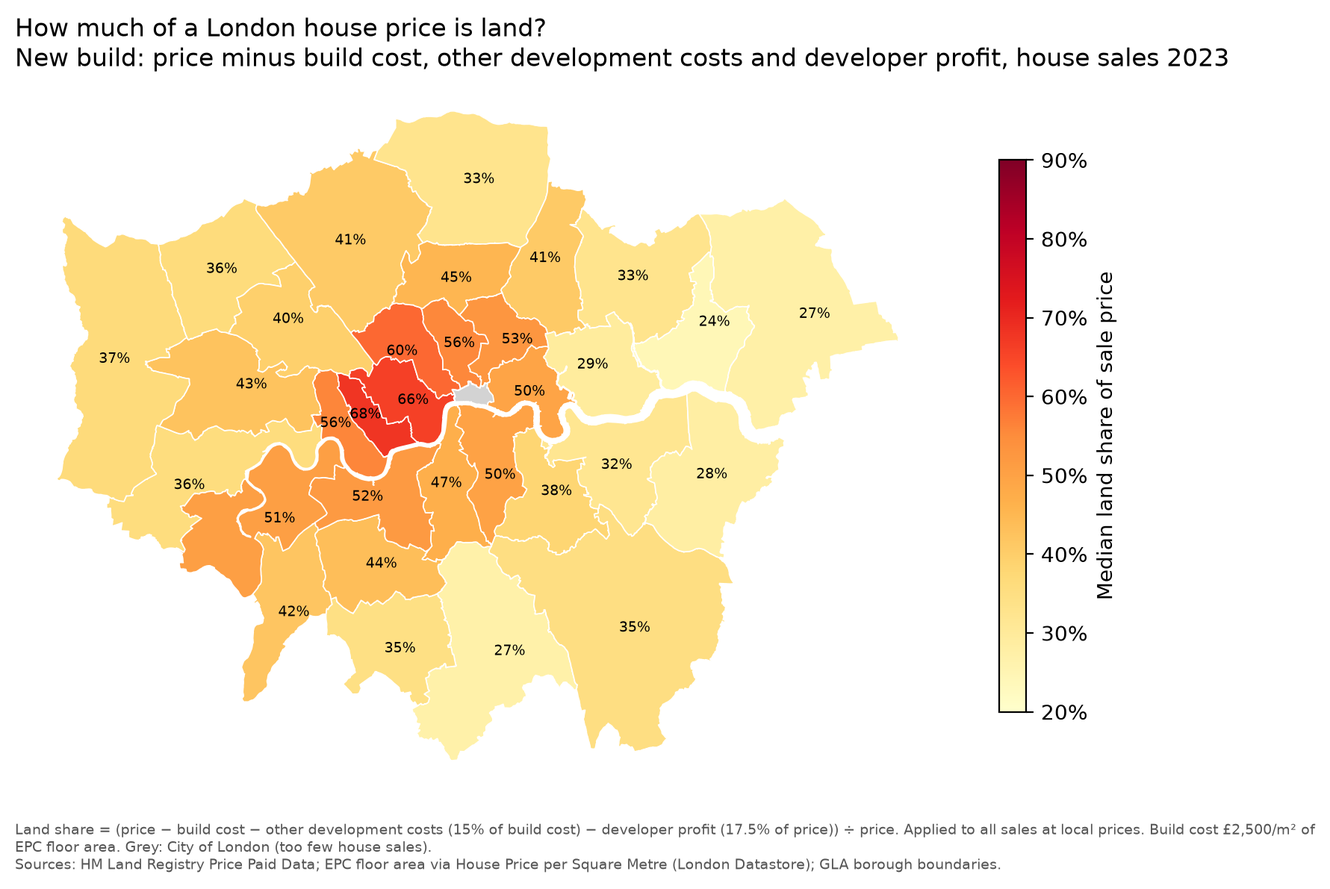
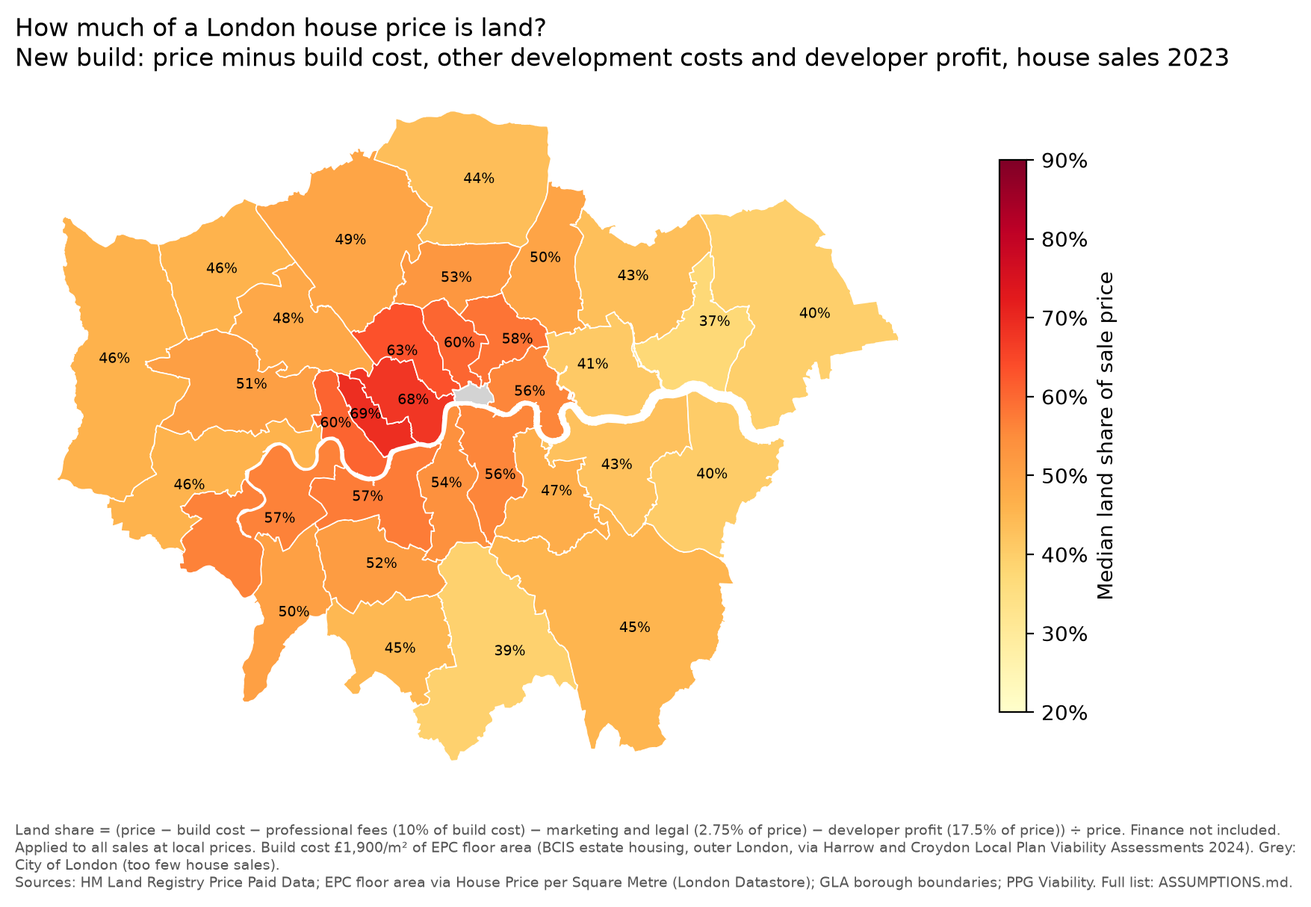
Use sourced assumptions: BCIS build cost £1,900/m², viability fees, ONS labour share
Build cost, fees, marketing and profit from Harrow and Croydon Local Plan Viability
Assessments 2024 (BCIS); developer profit range from PPG Viability; labour share
derived from ONS Input-Output Analytical Tables 2023. Full citations in ASSUMPTIONS.md.

diff --git a/app.py b/app.py
@@ -47,7 +47,7 @@ def split_chart(parts: dict, mode: str) -> go.Figure:
     ]
     if mode == "new_build":
         bars += [
-            ("Fees, finance, sales", parts["other_dev_costs"], COLOURS["other"]),
+            ("Fees, marketing and legal", parts["other_dev_costs"], COLOURS["other"]),
             ("Developer profit", parts["developer_profit"], COLOURS["profit"]),
         ]
     bars.append((LAND_LABEL[mode], parts["land"], COLOURS["land"]))
@@ -122,8 +122,10 @@ cost_per_m2 = st.sidebar.slider(
     help="Change this to see how the result depends on the build cost assumption.",
 )
 st.sidebar.caption(
-    f"Default {gbp(config.BUILD_COST_PER_M2)}/m² is provisional. "
-    f"Labour share of build cost: {config.LABOUR_SHARE:.0%} (national estimate)."
+    f"Default {gbp(config.BUILD_COST_PER_M2)}/m²: BCIS estate housing, outer London "
+    f"(Harrow and Croydon Local Plan Viability Assessments 2024). "
+    f"Labour share of build cost: {config.LABOUR_SHARE:.0%}, an estimate from ONS input-output "
+    f"tables 2023 (range {config.LABOUR_SHARE_RANGE[0]:.0%}–{config.LABOUR_SHARE_RANGE[1]:.0%})."
 )
 
 postcode = normalise_postcode(postcode_text)
@@ -224,13 +226,18 @@ st.divider()
 st.caption(
     f"**Method.** Build cost = EPC floor area × build cost per m². "
     f"Resale: land and location = price − build cost; a homeowner seller makes no developer profit. "
-    f"New build: land = price − build cost − fees, finance and sales "
-    f"({config.OTHER_DEV_COSTS_SHARE_OF_BUILD:.0%} of build cost, provisional) − developer profit "
-    f"({config.DEVELOPER_PROFIT_SHARE_OF_PRICE:.1%} of price, planning guidance: 15–20%). "
+    f"New build: land = price − build cost − professional fees "
+    f"({config.PROFESSIONAL_FEES_SHARE_OF_BUILD:.0%} of build cost) − marketing and legal "
+    f"({config.MARKETING_AND_LEGAL_SHARE_OF_PRICE:.2%} of price) − developer profit "
+    f"({config.DEVELOPER_PROFIT_SHARE_OF_PRICE:.1%} of price; planning guidance 15–20%). "
+    f"Finance is not included, so new-build land is slightly overstated. "
     f"The labour and materials split "
-    f"is a national estimate ({config.LABOUR_SHARE:.0%} labour), not data for each house. Houses only, "
+    f"is a national estimate ({config.LABOUR_SHARE:.0%} labour, ONS input-output tables 2023), not data "
+    f"for each house. Houses only, "
     f"standard sales, {config.YEAR}. EPC floor area can be old or incorrect.  \n"
     "**Sources.** HM Land Registry Price Paid Data; House Price per Square Metre (Price Paid × EPC, "
-    "London Datastore); postcodes.io; GLA borough boundaries. Contains HM Land Registry data © Crown "
+    "London Datastore); postcodes.io; GLA borough boundaries; build cost and appraisal assumptions from "
+    "BCIS via Harrow (Oct 2024) and Croydon (2024) Local Plan Viability Assessments; Planning Practice "
+    "Guidance: Viability. Contains HM Land Registry data © Crown "
     "copyright and database right. Full list in ASSUMPTIONS.md."
 )

diff --git a/config.py b/config.py
@@ -24,21 +24,32 @@ HOUSE_TYPES = ["D", "S", "T"]
 PPD_CATEGORIES = ["A"]
 
 # --- Build cost ------------------------------------------------------------
-# PROVISIONAL: the team must confirm this value and its source in ASSUMPTIONS.md.
-BUILD_COST_PER_M2 = 2500  # GBP per m² of floor area, London, houses
+# GBP per m² of floor area, houses, including 10% external works. BCIS 810.1 "Estate housing
+# generally" rebased to outer London: Harrow LPVA Oct 2024 Table 4.13.1 (£1,711 + 10% = £1,882);
+# Croydon LPVA 2024 para 4.12 (£1,754 + 10% = £1,929). Both by BNP Paribas Real Estate.
+BUILD_COST_PER_M2 = 1900
 
-# Multipliers for the sensitivity check (low, high) on BUILD_COST_PER_M2.
-BUILD_COST_SENSITIVITY = (0.8, 1.2)
+# Sensitivity range (low, high) in GBP per m². Low = -20%. High = £2,500, a cautious figure
+# above central Croydon (£2,201) to allow for inner London and net-zero costs.
+BUILD_COST_RANGE_PER_M2 = (1520, 2500)
 
-# PROVISIONAL ESTIMATE: national labour share of build cost. Label as an estimate in outputs.
-LABOUR_SHARE = 0.45
+# ESTIMATE: labour share of build cost, derived from ONS Input-Output Analytical Tables 2023
+# (UK construction, all types). Employee pay only gives 22%; adding all self-employed income
+# and surplus gives 52%. We use 38%, about the middle. Label as an estimate in outputs.
+LABOUR_SHARE = 0.38
+LABOUR_SHARE_RANGE = (0.22, 0.52)
 
 # --- New-build appraisal (not used for resales: a homeowner seller makes no developer profit) ---
 # Developer profit as a share of sale price. PPG Viability para 018: 15-20% of gross
-# development value is a suitable return for plan-making. We use the midpoint.
+# development value is a suitable return. Harrow and Croydon LPVAs 2024 use 17.5%.
 DEVELOPER_PROFIT_SHARE_OF_PRICE = 0.175
-# PROVISIONAL: professional fees, finance, sales and marketing, as a share of build cost.
-OTHER_DEV_COSTS_SHARE_OF_BUILD = 0.15
+# Professional fees as a share of build cost. Harrow LPVA para 4.22, Croydon para 4.18: 10%.
+PROFESSIONAL_FEES_SHARE_OF_BUILD = 0.10
+# Marketing and agents 2.5% plus sales legal fees 0.25% of sale price. Harrow para 4.24,
+# Croydon para 4.20.
+MARKETING_AND_LEGAL_SHARE_OF_PRICE = 0.0275
+# Finance is not included: the studies give an interest rate (6.5-7%), not a share, and a
+# share needs a build period assumption. So new-build land is slightly overstated.
 
 # Calculation modes.
 MODES = {"resale": "Resale (existing house)", "new_build": "New build (developer appraisal)"}

diff --git a/src/analysis.py b/src/analysis.py
@@ -10,8 +10,8 @@ from src.costs import split_price
 
 
 def add_splits(df: pd.DataFrame) -> pd.DataFrame:
-    """Add the price split for both modes, plus the ±build cost sensitivity."""
-    low, high = config.BUILD_COST_SENSITIVITY
+    """Add the price split for both modes, plus the build cost sensitivity range."""
+    low, high = config.BUILD_COST_RANGE_PER_M2
     df["price_per_m2"] = df["price"] / df["tfarea"]
     for mode in config.MODES:
         parts = split_price(df["price"], df["tfarea"], mode=mode)
@@ -19,14 +19,15 @@ def add_splits(df: pd.DataFrame) -> pd.DataFrame:
         df["labour_cost_est"] = parts["labour_est"]
         df[f"land_{mode}"] = parts["land"]
         df[f"land_share_{mode}"] = parts["land_share"]
-        for tag, k in (("cost_minus_20pct", low), ("cost_plus_20pct", high)):
+        for tag, cost in (("low_cost", low), ("high_cost", high)):
             df[f"land_share_{mode}_{tag}"] = split_price(
-                df["price"], df["tfarea"], config.BUILD_COST_PER_M2 * k, mode)["land_share"]
+                df["price"], df["tfarea"], cost, mode)["land_share"]
     return df
 
 
 def borough_summary(df: pd.DataFrame) -> pd.DataFrame:
     """Medians per borough. Both methods are applied to every sale at local prices."""
+    low, high = config.BUILD_COST_RANGE_PER_M2
     aggs = dict(
         sales=("price", "size"),
         new_build_sales=("old_new", lambda s: (s == "Y").sum()),
@@ -37,8 +38,8 @@ def borough_summary(df: pd.DataFrame) -> pd.DataFrame:
     )
     for mode in config.MODES:
         aggs[f"median_land_share_{mode}"] = (f"land_share_{mode}", "median")
-        aggs[f"land_share_{mode}_if_cost_minus_20pct"] = (f"land_share_{mode}_cost_minus_20pct", "median")
-        aggs[f"land_share_{mode}_if_cost_plus_20pct"] = (f"land_share_{mode}_cost_plus_20pct", "median")
+        aggs[f"land_share_{mode}_at_{low}_per_m2"] = (f"land_share_{mode}_low_cost", "median")
+        aggs[f"land_share_{mode}_at_{high}_per_m2"] = (f"land_share_{mode}_high_cost", "median")
     summary = df.groupby("borough_code").agg(**aggs)
     names = load_boundaries().set_index("GSS_CODE")["NAME"]
     summary.insert(0, "borough", names.reindex(summary.index))

diff --git a/src/map.py b/src/map.py
@@ -18,9 +18,10 @@ TITLES = {
 NOTES = {
     "resale": "Land share = (price − build cost) ÷ price. A homeowner seller makes no developer "
               "profit, so the rest is land and location.",
-    "new_build": f"Land share = (price − build cost − other development costs "
-                 f"({config.OTHER_DEV_COSTS_SHARE_OF_BUILD:.0%} of build cost) − developer profit "
-                 f"({config.DEVELOPER_PROFIT_SHARE_OF_PRICE:.1%} of price)) ÷ price. "
+    "new_build": f"Land share = (price − build cost − professional fees "
+                 f"({config.PROFESSIONAL_FEES_SHARE_OF_BUILD:.0%} of build cost) − marketing and legal "
+                 f"({config.MARKETING_AND_LEGAL_SHARE_OF_PRICE:.2%} of price) − developer profit "
+                 f"({config.DEVELOPER_PROFIT_SHARE_OF_PRICE:.1%} of price)) ÷ price. Finance not included. "
                  "Applied to all sales at local prices.",
 }
 
@@ -50,10 +51,11 @@ def plot_land_share(gdf, mode: str, path):
     )
     ax.text(
         0, -0.04,
-        f"{NOTES[mode]} Build cost £{config.BUILD_COST_PER_M2:,}/m² of EPC floor area. "
+        f"{NOTES[mode]} Build cost £{config.BUILD_COST_PER_M2:,}/m² of EPC floor area (BCIS estate "
+        "housing, outer London, via Harrow and Croydon Local Plan Viability Assessments 2024). "
         "Grey: City of London (too few house sales).\n"
         "Sources: HM Land Registry Price Paid Data; EPC floor area via House Price per Square Metre "
-        "(London Datastore); GLA borough boundaries.",
+        "(London Datastore); GLA borough boundaries; PPG Viability. Full list: ASSUMPTIONS.md.",
         transform=ax.transAxes, fontsize=7, va="top", color="#555", wrap=True,
     )
     ax.set_axis_off()

diff --git a/src/costs.py b/src/costs.py
@@ -1,7 +1,7 @@
 """Split a sale price into its parts. Works on single values and on pandas Series.
 
 Resale:    price = labour + materials + land and location
-New build: price = labour + materials + other development costs + developer profit + land
+New build: price = labour + materials + fees and marketing + developer profit + land (no finance)
 """
 import config
 
@@ -12,7 +12,8 @@ def split_price(price, floor_area, cost_per_m2=config.BUILD_COST_PER_M2, mode="r
     build = floor_area * cost_per_m2
     labour = build * config.LABOUR_SHARE
     if mode == "new_build":
-        other = build * config.OTHER_DEV_COSTS_SHARE_OF_BUILD
+        other = (build * config.PROFESSIONAL_FEES_SHARE_OF_BUILD
+                 + price * config.MARKETING_AND_LEGAL_SHARE_OF_PRICE)
         profit = price * config.DEVELOPER_PROFIT_SHARE_OF_PRICE
     else:
         other = build * 0

diff --git a/ASSUMPTIONS.md b/ASSUMPTIONS.md
@@ -1,59 +1,99 @@
-# Assumptions and limits
+# Assumptions, sources and limits
 
-Each assumption lists its value, its source, and its status. Values live in `config.py`.
+All values live in `config.py`. Each assumption below gives its value, its source (see the numbered source list at the end) and its status.
 
-## Assumptions
+- **Sourced**: taken directly from a published source.
+- **Derived**: calculated by us from a published source; the method is given.
+- **Team choice**: a judgement call, stated openly.
 
-| # | Assumption | Value | Source | Status |
+## 1. Scope
+
+| # | Assumption | Value | Source / reason | Status |
 |---|---|---|---|---|
-| 1 | Year of sales (`YEAR`) | 2023 | Latest full year in the pre-linked Price Paid x EPC dataset (it ends 31 Oct 2024). Price Paid has 2025, but using it would need our own address matching | Confirmed |
-| 2 | London sales only | County = `GREATER LONDON` | Price Paid Data county field | Confirmed |
-| 3 | Houses only (`HOUSE_TYPES`) | D, S, T | Flats share land, so the land share of a flat is not clear | Confirmed |
-| 4 | Standard sales only (`PPD_CATEGORIES`) | A | Category B includes repossessions, buy-to-let and company sales, which are not full market value | Confirmed |
-| 5 | Build cost (`BUILD_COST_PER_M2`) | £2,500 per m² | **No source yet** | **PROVISIONAL: team must set and cite** |
-| 6 | Build cost sensitivity range | ×0.8 to ×1.2 | Team choice to show how results move | Confirmed |
-| 7 | Labour share of build cost (`LABOUR_SHARE`) | 45% | **No source yet.** Candidate: ONS Input-Output Analytical Tables, construction compensation of employees | **PROVISIONAL ESTIMATE** |
-| 8 | Borough assignment | Price Paid `district` field mapped to GSS code | Only one name differs: `CITY OF WESTMINSTER` → Westminster | Confirmed |
-| 9 | Freehold and leasehold houses both kept | — | Leasehold houses are a small share in London | Confirmed |
-| 10 | Floor area source | EPC total floor area (`tfarea`) | House Price per Square Metre dataset, London Datastore (Price Paid x EPC, pre-linked by the dataset authors) | Confirmed |
-| 11 | Floor area sanity limits | 30 to 1,000 m² | Team choice; removes 16 records | Confirmed |
-| 12 | Minimum sales per borough on the map | 30 | Team choice. Only City of London falls below (1 house sale) | Confirmed |
-| 13 | Resale: no developer profit | 0 | The seller of an existing house is a homeowner. 99.6% of 2023 London house sales were resales (32,345 of 32,486) | Confirmed |
-| 14 | New build: developer profit (`DEVELOPER_PROFIT_SHARE_OF_PRICE`) | 17.5% of sale price | Planning Practice Guidance, Viability, para 018: 15–20% of gross development value. Midpoint used | Confirmed (source: PPG) |
-| 15 | New build: fees, finance, sales and marketing (`OTHER_DEV_COSTS_SHARE_OF_BUILD`) | 15% of build cost | **No source yet** | **PROVISIONAL** |
-| 16 | New-build method on the borough map | Applied to all sales at local prices | Only 141 actual new-build house sales in 2023; no borough has 30. Read as "if this house were sold new" | Confirmed |
+| 1.1 | Year of sales (`YEAR`) | 2023 | Latest full year in the pre-linked Price Paid × EPC dataset [S2], which ends 31 Oct 2024 | Team choice |
+| 1.2 | London only | County = `GREATER LONDON` | Price Paid county field [S1] | Sourced |
+| 1.3 | Houses only (`HOUSE_TYPES`) | D, S, T | Flats share land, so the land share of a flat is not clear | Team choice |
+| 1.4 | Standard sales only (`PPD_CATEGORIES`) | Category A | Category B includes repossessions, buy-to-let and company sales, which are not full market value [S1] | Sourced |
+| 1.5 | Freehold and leasehold houses both kept | — | Leasehold houses are a small share in London | Team choice |
+| 1.6 | Borough assignment | Price Paid `district` → GSS code | Only `CITY OF WESTMINSTER` → Westminster needed a fix [S1, S3] | Sourced |
+| 1.7 | Floor area | EPC total floor area (`tfarea`) | Pre-linked by the dataset authors [S2] | Sourced |
+| 1.8 | Floor area limits | 30 to 1,000 m² | Removes 16 implausible records | Team choice |
+| 1.9 | Minimum sales per borough on the map | 30 | Only City of London falls below (1 house sale) | Team choice |
 
-## Validation data
+## 2. Build cost
 
-- **MHCLG Land Value Estimates for Policy Appraisal 2023** (published March 2026, valuation date 1 Oct 2023). Residential land value in £/ha per local authority. We use the low-density median as the comparison for houses. It is used to check the borough ranking, not in the main calculation.
+| # | Assumption | Value | Source / reason | Status |
+|---|---|---|---|---|
+| 2.1 | Build cost (`BUILD_COST_PER_M2`) | **£1,900 per m²** | BCIS 810.1 "Estate housing generally", rebased to outer London, plus 10% external works. Harrow: £1,711 + 10% = £1,882 [S5, Table 4.13.1]. Croydon (outside the town centre): £1,754 + 10% = £1,929 [S6, paras 4.12–4.13]. Rounded to £1,900 | Sourced |
+| 2.2 | Sensitivity range (`BUILD_COST_RANGE_PER_M2`) | £1,520 to £2,500 | Low = −20%. High = £2,500, above central Croydon (£2,001 + 10% = £2,201 [S6]) to allow for inner London and net-zero costs (+4.2% to 5.2% for houses [S6, para 4.14]) | Team choice |
+| 2.3 | Labour share of build cost (`LABOUR_SHARE`) | **38% (estimate)**, range 22% to 52% | Derived from ONS Input-Output Analytical Tables 2023 [S7], UK construction (CPA F41–43), output £399bn. Employee pay = 15.3% of output; operating surplus and mixed income = 21.1%; construction bought from other construction firms (subcontracting) = 30.8%. Treating subcontracted work as having the same cost structure: employees only = 15.3 ÷ (1 − 0.308) = 22%; employees plus all self-employed income and surplus = (15.3 + 21.1) ÷ (1 − 0.308) = 52%. We use 38%, about the middle | Derived |
 
-## Results by type of sale (London, 2023)
+## 3. Resale method
 
-| | Sales | Median price | Median land share |
-|---|---|---|---|
-| Resales, resale method | 32,345 | £625,000 | 61% |
-| Actual new builds, new-build method | 141 | £690,000 | 36% |
-| All sales, new-build method | 32,486 | | 38% |
+Price = build cost (labour + materials) + land and location.
+
+| # | Assumption | Value | Source / reason | Status |
+|---|---|---|---|---|
+| 3.1 | Developer profit on a resale | 0 | The seller of an existing house is a homeowner, not a developer. 99.6% of 2023 London house sales were resales (32,345 of 32,486) [S1] | Sourced |
+| 3.2 | Land and location | Price − build cost | What is left after the cost to rebuild the house | Method |
+
+## 4. New-build method (developer appraisal)
+
+Price = build cost + professional fees + marketing and legal + developer profit + land. This is the residual method used in Local Plan viability studies [S5, S6] and in national guidance [S8].
+
+| # | Assumption | Value | Source / reason | Status |
+|---|---|---|---|---|
+| 4.1 | Developer profit (`DEVELOPER_PROFIT_SHARE_OF_PRICE`) | **17.5% of sale price** | PPG Viability para 018: 15–20% of gross development value [S8]. Harrow [S5, para 4.33] and Croydon [S6, para 4.29] use 17.5% | Sourced |
+| 4.2 | Professional fees (`PROFESSIONAL_FEES_SHARE_OF_BUILD`) | **10% of build cost** | Harrow [S5, para 4.22], Croydon [S6, para 4.18]. Croydon gives a range of 6% to 12% | Sourced |
+| 4.3 | Marketing and legal (`MARKETING_AND_LEGAL_SHARE_OF_PRICE`) | **2.75% of sale price** | Marketing and agents 2.5% plus sales legal fees 0.25% [S5, para 4.24; S6, para 4.20] | Sourced |
+| 4.4 | Finance | **Not included** | The studies give an interest rate (Croydon 6.5%, Harrow 7%) [S5, S6], not a share. A share needs a build period assumption. So new-build land is slightly overstated | Team choice |
+| 4.5 | New-build method on the borough map | Applied to all sales at local prices | Only 141 actual new-build house sales in 2023; no borough has 30. Read as "if this house were sold new" | Team choice |
+
+## Results (London, 2023, build cost £1,900/m²)
+
+| | Sales | Median price | Median land share | At £1,520/m² | At £2,500/m² |
+|---|---|---|---|---|---|
+| All sales, resale method | 32,486 | £625,000 | **70%** | | |
+| All sales, new-build method | 32,486 | £625,000 | **47%** | | |
+| Actual resales, resale method | 32,345 | £625,000 | 70% | | |
+| Actual new builds, new-build method | 141 | £690,000 | 46% | | |
+| Kensington and Chelsea (highest), resale | 349 | £3,400,000 | 90% | 92% | 87% |
+| Barking and Dagenham (lowest), resale | 805 | £400,000 | 62% | 69% | 49% |
+| Kensington and Chelsea, new build | | | 69% | 71% | 66% |
+| Barking and Dagenham, new build | | | 37% | 46% | 24% |
+
+No borough changes rank anywhere in the £1,520 to £2,500 range. Full table: `outputs/borough_summary_2023.csv`.
 
 ## Match rate
 
-- London houses (D/S/T), category A, 2023 in Price Paid: **33,919**
-- Linked to an EPC floor area: **32,502 (95.8%)**
+- London houses (D/S/T), category A, 2023 in Price Paid [S1]: **33,919**
+- Linked to an EPC floor area [S2]: **32,502 (95.8%)**
 - After floor area limits: **32,486 (95.8%)**
 
-Matching done by the House Price per Square Metre dataset authors; we join to Price Paid on transaction ID.
+Matching was done by the authors of [S2]; we join to Price Paid on transaction ID.
 
 ## Validation
 
-- Borough rank of our median land share against MHCLG residential land value (£/ha, 2023): Spearman ρ = **0.63** (low density), **0.70** (medium density), 32 boroughs.
-- Build cost ±20%: the lowest borough (Barking and Dagenham) moves from 49% to a range of 39% to 59%; the highest (Kensington and Chelsea) from 87% to 85% to 90%. The ranking does not change.
+- Borough rank of our median resale land share against MHCLG residential land value (£/ha, 2023) [S4]: Spearman ρ = **0.63** (low density), **0.70** (medium density), 32 boroughs. MHCLG values a hypothetical new-build scheme, so we compare rankings only, not amounts.
 
 ## Known limits (for the presentation)
 
-- Build cost is an estimate from one cost per square metre, not the real cost of each home.
-- The labour and materials split is a national estimate, not data for each home.
-- Resale: the part left after build cost is land and location. It includes no developer profit, but it does include any error in the build cost. The build cost of a new house is more than an old house is worth, so the resale land share is, if anything, too low.
-- New build: developer profit and other development costs are standard appraisal assumptions, not data for each sale.
-- Unmatched addresses can make the sample less representative.
+- Build cost is one figure per m² for all of London, from outer London boroughs. Inner London costs more; the £2,500 upper figure covers this. The ranking of boroughs does not depend on it.
+- The labour and materials split is a national estimate for all construction, not data for each house.
+- Resale: the part left after build cost is land and location. It includes no developer profit. The cost to build a new house is more than an old house is worth, so the resale land share is, if anything, too low.
+- New build: profit, fees and marketing are standard appraisal assumptions, not data for each sale. Finance is left out.
+- 4.2% of house sales could not be linked to an EPC, which can make the sample less representative.
 - EPC floor area can be old or incorrect.
-- One London-wide build cost ignores differences between boroughs. This moves absolute land shares, but the ranking between boroughs is more robust.
+
+## Sources
+
+| ID | Source | Used for |
+|---|---|---|
+| S1 | HM Land Registry, Price Paid Data, 2023 and 2025 files. https://www.gov.uk/government/statistical-data-sets/price-paid-data-downloads | Sale prices, property type, category, new-build flag |
+| S2 | House Price per Square Metre in England and Wales (Price Paid × EPC, pre-linked), London Datastore, file dated 26 Dec 2024. https://data.london.gov.uk/dataset/house-price-per-square-metre-in-england-and-wales | EPC floor area per sale |
+| S3 | GLA Statistical GIS Boundary Files for London, London Datastore | Borough boundaries and GSS codes |
+| S4 | MHCLG, Land Value Estimates for Policy Appraisal 2023 (published March 2026). https://www.gov.uk/government/publications/land-value-estimates-for-policy-appraisal-2023 | Validation of borough ranking |
+| S5 | BNP Paribas Real Estate for London Borough of Harrow, Local Plan Viability Assessment, October 2024. https://www.harrow.gov.uk/downloads/file/32803/EBLE02_Plan_level_Viability_Assessment__October_2024_.pdf | Build cost (BCIS), fees, marketing, profit |
+| S6 | BNP Paribas Real Estate for London Borough of Croydon, Local Plan Viability Assessment, 2024. https://www.croydon.gov.uk/sites/default/files/2024-03/new-lb-croydon-local-plan-viability-assessment-final-2024_0.pdf | Build cost (BCIS), fees, marketing, net-zero uplift |
+| S7 | ONS, UK Input-Output Analytical Tables, detailed, 2023 (product by product). https://www.ons.gov.uk/economy/nationalaccounts/supplyandusetables/datasets/ukinputoutputanalyticaltablesdetailed. Local copy: `data/raw/iot2023product.xlsx` | Labour share of construction |
+| S8 | MHCLG, Planning Practice Guidance: Viability, para 018. https://www.gov.uk/guidance/viability | Developer profit 15–20% of GDV |

diff --git a/CLAUDE.md b/CLAUDE.md
@@ -27,8 +27,11 @@ Do not start item 3 until items 1 and 2 are complete.
 2. Get floor area from the EPC register (Energy Performance Certificates).
 3. Match the two datasets. **Done for us:** use the pre-linked House Price per Square Metre dataset (see below), joined to Price Paid on transaction ID. Our own address matching is now only a fallback.
 4. Calculate estimated build cost: floor area multiplied by `BUILD_COST_PER_M2`.
-5. Calculate land share: (sale price minus build cost) divided by sale price.
-6. Aggregate by borough with medians, not means.
+5. Calculate land share in two modes (`src/costs.py`, `split_price`, shared by analysis, maps and demo):
+   - **Resale:** land and location = price − build cost. A homeowner seller makes no developer profit. 99.6% of 2023 house sales are resales.
+   - **New build (developer appraisal):** land = price − build cost − professional fees − marketing and legal − developer profit. Finance is left out.
+6. Aggregate by borough with medians, not means. Both modes are applied to every sale at local prices; the London-wide table also compares actual new builds with actual resales.
+7. Show the build cost range (`BUILD_COST_RANGE_PER_M2`) next to every headline figure.
 
 ## Data sources
 
@@ -39,15 +42,17 @@ Do not start item 3 until items 1 and 2 are complete.
 - **EPC register:** https://get-energy-performance-data.communities.gov.uk/. Only needed if we extend to 2025 sales with our own address matching. Not needed for the main result.
 - **Borough boundaries:** London Datastore, statistical GIS boundary files. Downloaded: `data/raw/london_boundaries/`. Use `London_Borough_Excluding_MHW.shp`. Join on `GSS_CODE`, not the name.
 
-### For assumptions in `config.py`
+### For assumptions in `config.py` (full citations with paragraph numbers in `ASSUMPTIONS.md`)
 
-- **Build cost per m²:** BCIS (paywalled), or the free summary figures in Turner & Townsend, Arcadis or Gleeds international cost reports. Use a London figure, not a UK average. Record the price year.
-- **Labour share:** ONS Input-Output Analytical Tables (construction compensation of employees).
+- **Build cost, fees, marketing, profit:** BCIS figures are paywalled, but London boroughs publish them in their Local Plan Viability Assessments. We use Harrow (BNP Paribas, Oct 2024) and Croydon (BNP Paribas, 2024): BCIS 810.1 "Estate housing generally" rebased to outer London, £1,711–£1,754 + 10% external works ≈ **£1,900/m²**; professional fees 10% of build cost; marketing 2.5% + legal 0.25% of price; profit 17.5% of price.
+- **Developer profit range:** Planning Practice Guidance: Viability, para 018 (15–20% of GDV).
+- **Labour share:** derived from ONS Input-Output Analytical Tables 2023 (`data/raw/iot2023product.xlsx`), UK construction. Range 22% (employees only) to 52% (plus self-employed income and surplus); we use 38%. Method in `ASSUMPTIONS.md` 2.3.
+- Not good enough to cite: blog "cost per m²" calculators, and Turner & Townsend / Arcadis London averages (they cover all building types, not houses).
 
 ### Validation and context
 
 - **MHCLG Land Value Estimates for Policy Appraisal 2023:** residential land £/ha per borough. Downloaded: `data/raw/land_value_estimates_2023.xlsx`. Use to check the borough ranking only.
-- **Forest MCP:** open UK data, one value per parliamentary constituency (PCON24), not per borough or per sale. It cannot replace Price Paid + EPC. Useful for context: `average_house_price_gbp` (ONS UK HPI, to cross-check our medians), `parliament_house_price_to_earnings_ratio`, `homes_completed_annual`, `dwelling_flat_pct`, `bedrooms_*_pct` (fallback proxy for floor area if matching fails).
+- **Forest MCP:** open UK data (login can expire: run `/mcp` to sign in again). No construction cost or appraisal data, one value per parliamentary constituency (PCON24), not per borough or per sale. It cannot replace Price Paid + EPC. Useful for context: `average_house_price_gbp` (ONS UK HPI, to cross-check our medians), `parliament_house_price_to_earnings_ratio`, `homes_completed_annual`, `dwelling_flat_pct`, `bedrooms_*_pct` (fallback proxy for floor area if matching fails).
 - **Postcode lookup (demo only):** postcodes.io API, or ONS Postcode Directory if offline.
 
 ### Team list: other datasets (not used in the main result; use for extra slides only if time permits)
@@ -74,9 +79,11 @@ Do not guess field names.
 
 Keep all assumptions in `config.py`:
 
-- `BUILD_COST_PER_M2`: the team must set this value and record the source in `ASSUMPTIONS.md`.
-- `LABOUR_SHARE`: one national estimate for the labour part of build cost. Label it as an estimate in all outputs.
-- `YEAR`: the year of sales.
+- `YEAR` = 2023: the latest full year in the pre-linked data.
+- `BUILD_COST_PER_M2` = £1,900 (sourced, BCIS via Harrow and Croydon), with `BUILD_COST_RANGE_PER_M2` = (£1,520, £2,500).
+- `LABOUR_SHARE` = 38%, with `LABOUR_SHARE_RANGE` = (22%, 52%): one national estimate (ONS-derived). Label it as an estimate in all outputs.
+- New build only: `DEVELOPER_PROFIT_SHARE_OF_PRICE` = 17.5%, `PROFESSIONAL_FEES_SHARE_OF_BUILD` = 10%, `MARKETING_AND_LEGAL_SHARE_OF_PRICE` = 2.75%.
+- Every value in `config.py` must have a source or a stated reason in `ASSUMPTIONS.md`, with a status: sourced, derived or team choice.
 
 Do not put numbers for these assumptions directly in analysis code.
 
@@ -125,11 +132,19 @@ Do not add other frameworks.
 
 ## Known limits (put these in the presentation)
 
-- Build cost is an estimate from one cost per square metre, not the real cost of each home.
-- The labour and materials split is a national estimate, not data for each home.
-- Resale land share is land and location (no developer profit in a resale). New-build land share subtracts a standard developer profit (15–20% of price, planning guidance) and other development costs.
-- Unmatched addresses can make the sample less representative.
+- Build cost is one cost per m² for all of London, from outer London boroughs, not the real cost of each home. Inner London costs more; the £2,500 upper figure covers this. The borough ranking does not change across the range.
+- The labour and materials split is a national estimate for all construction, not data for each home.
+- Resale land share is land and location (no developer profit in a resale). It is if anything too low, because an old house is worth less than the cost to build it new.
+- New-build land share subtracts standard appraisal assumptions (profit 17.5%, fees 10%, marketing and legal 2.75%). Finance is left out, so it is slightly too high.
+- 4.2% of house sales could not be linked to an EPC; unmatched sales can make the sample less representative.
 - EPC floor area can be old or incorrect.
+
+## Current results (2023, £1,900/m²)
+
+- London median land share: **70% as a resale, 47% as a new build**.
+- Resale by borough: 62% (Barking and Dagenham) to 90% (Kensington and Chelsea). At £2,500/m²: 49% to 87%.
+- Match rate 95.8%. Rank agreement with MHCLG land values: ρ = 0.63–0.70.
+- One sentence: "Even in London's cheapest borough, most of a house's price is land, not bricks: about 62% on a resale, and still 37% after a developer's costs and profit."
 
 ## Definition of done
 
